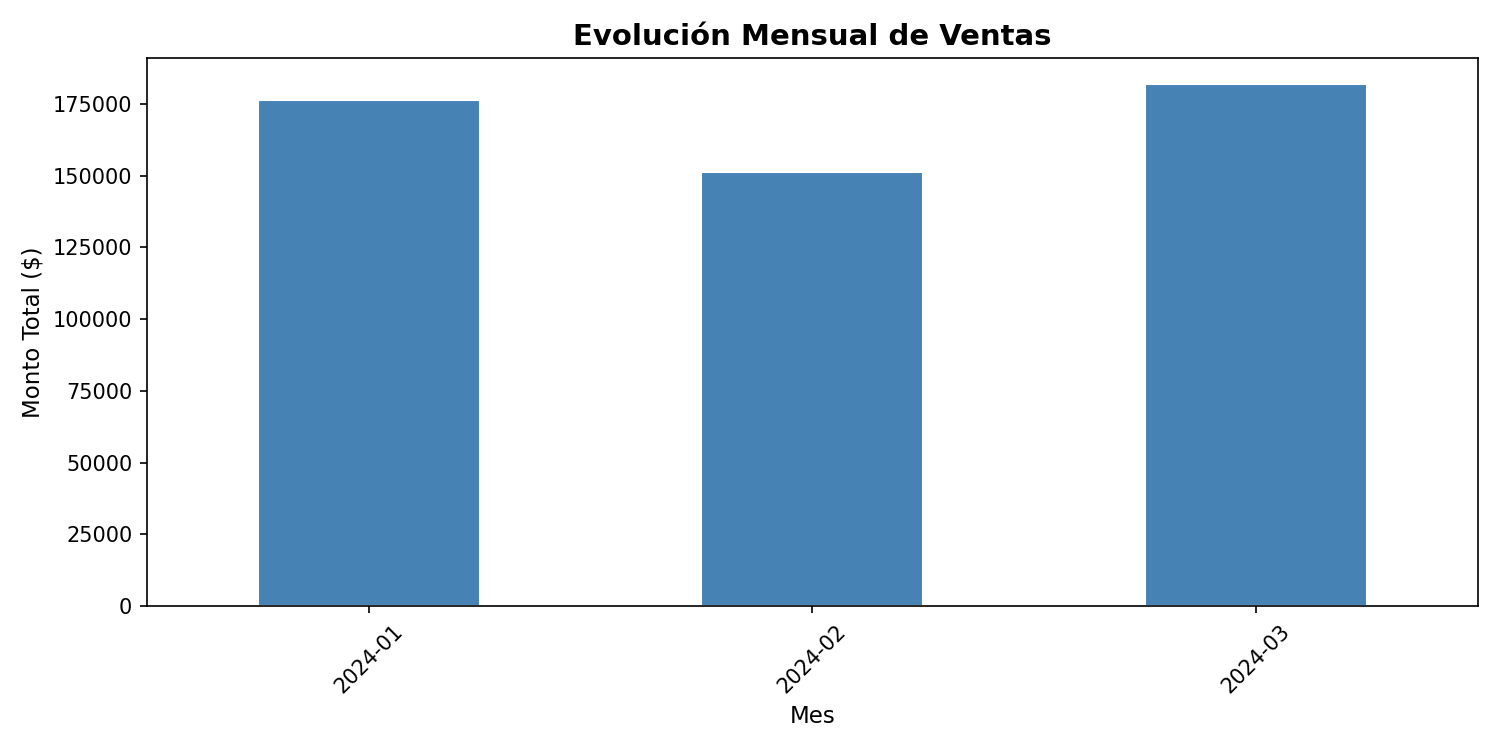
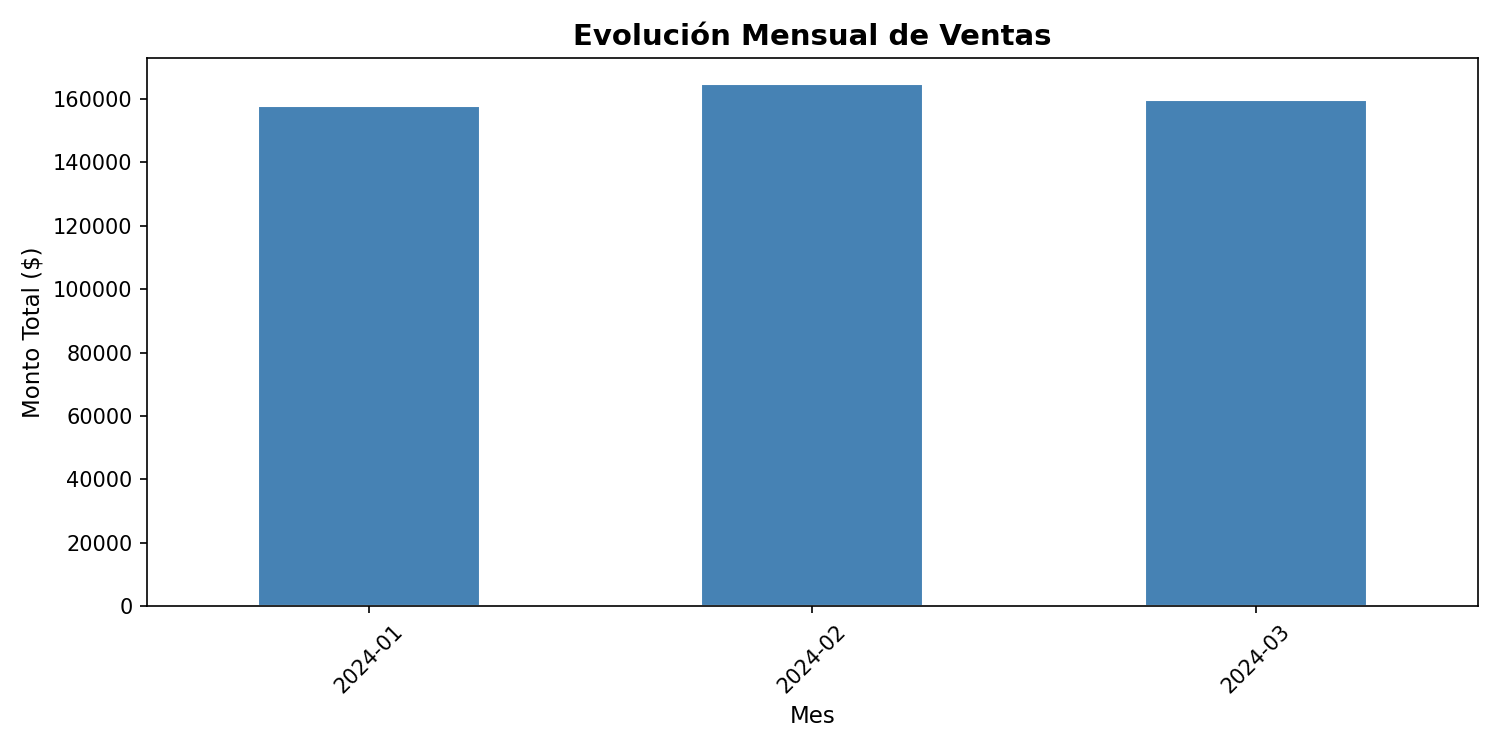
EDDA-6: Agregar revisión QA y mejorar documentación interna del script

diff --git a/scripts/analisis_ventas.py b/scripts/analisis_ventas.py
@@ -7,15 +7,6 @@
 # - Gráficos guardados correctamente en /resultados
 # ==============================================================
 
-# ==============================================================
-# REVISIÓN QA — P3 (Rol: Lucas Timotio)
-# Verificaciones realizadas:
-# - Rutas relativas correctas (reproducible en Colab)
-# - Sin datos sensibles ni tokens en el código
-# - Comentarios técnicos presentes en cada sección
-# - Gráficos guardados correctamente en /resultados
-# ==============================================================
-
 # analisis_ventas.py
 # Autor: P2 - Desarrollador Técnico (Rol: Ricardo Ricardo)
 # Proyecto: Análisis de Ventas — Célula Ágil UTN TUP
